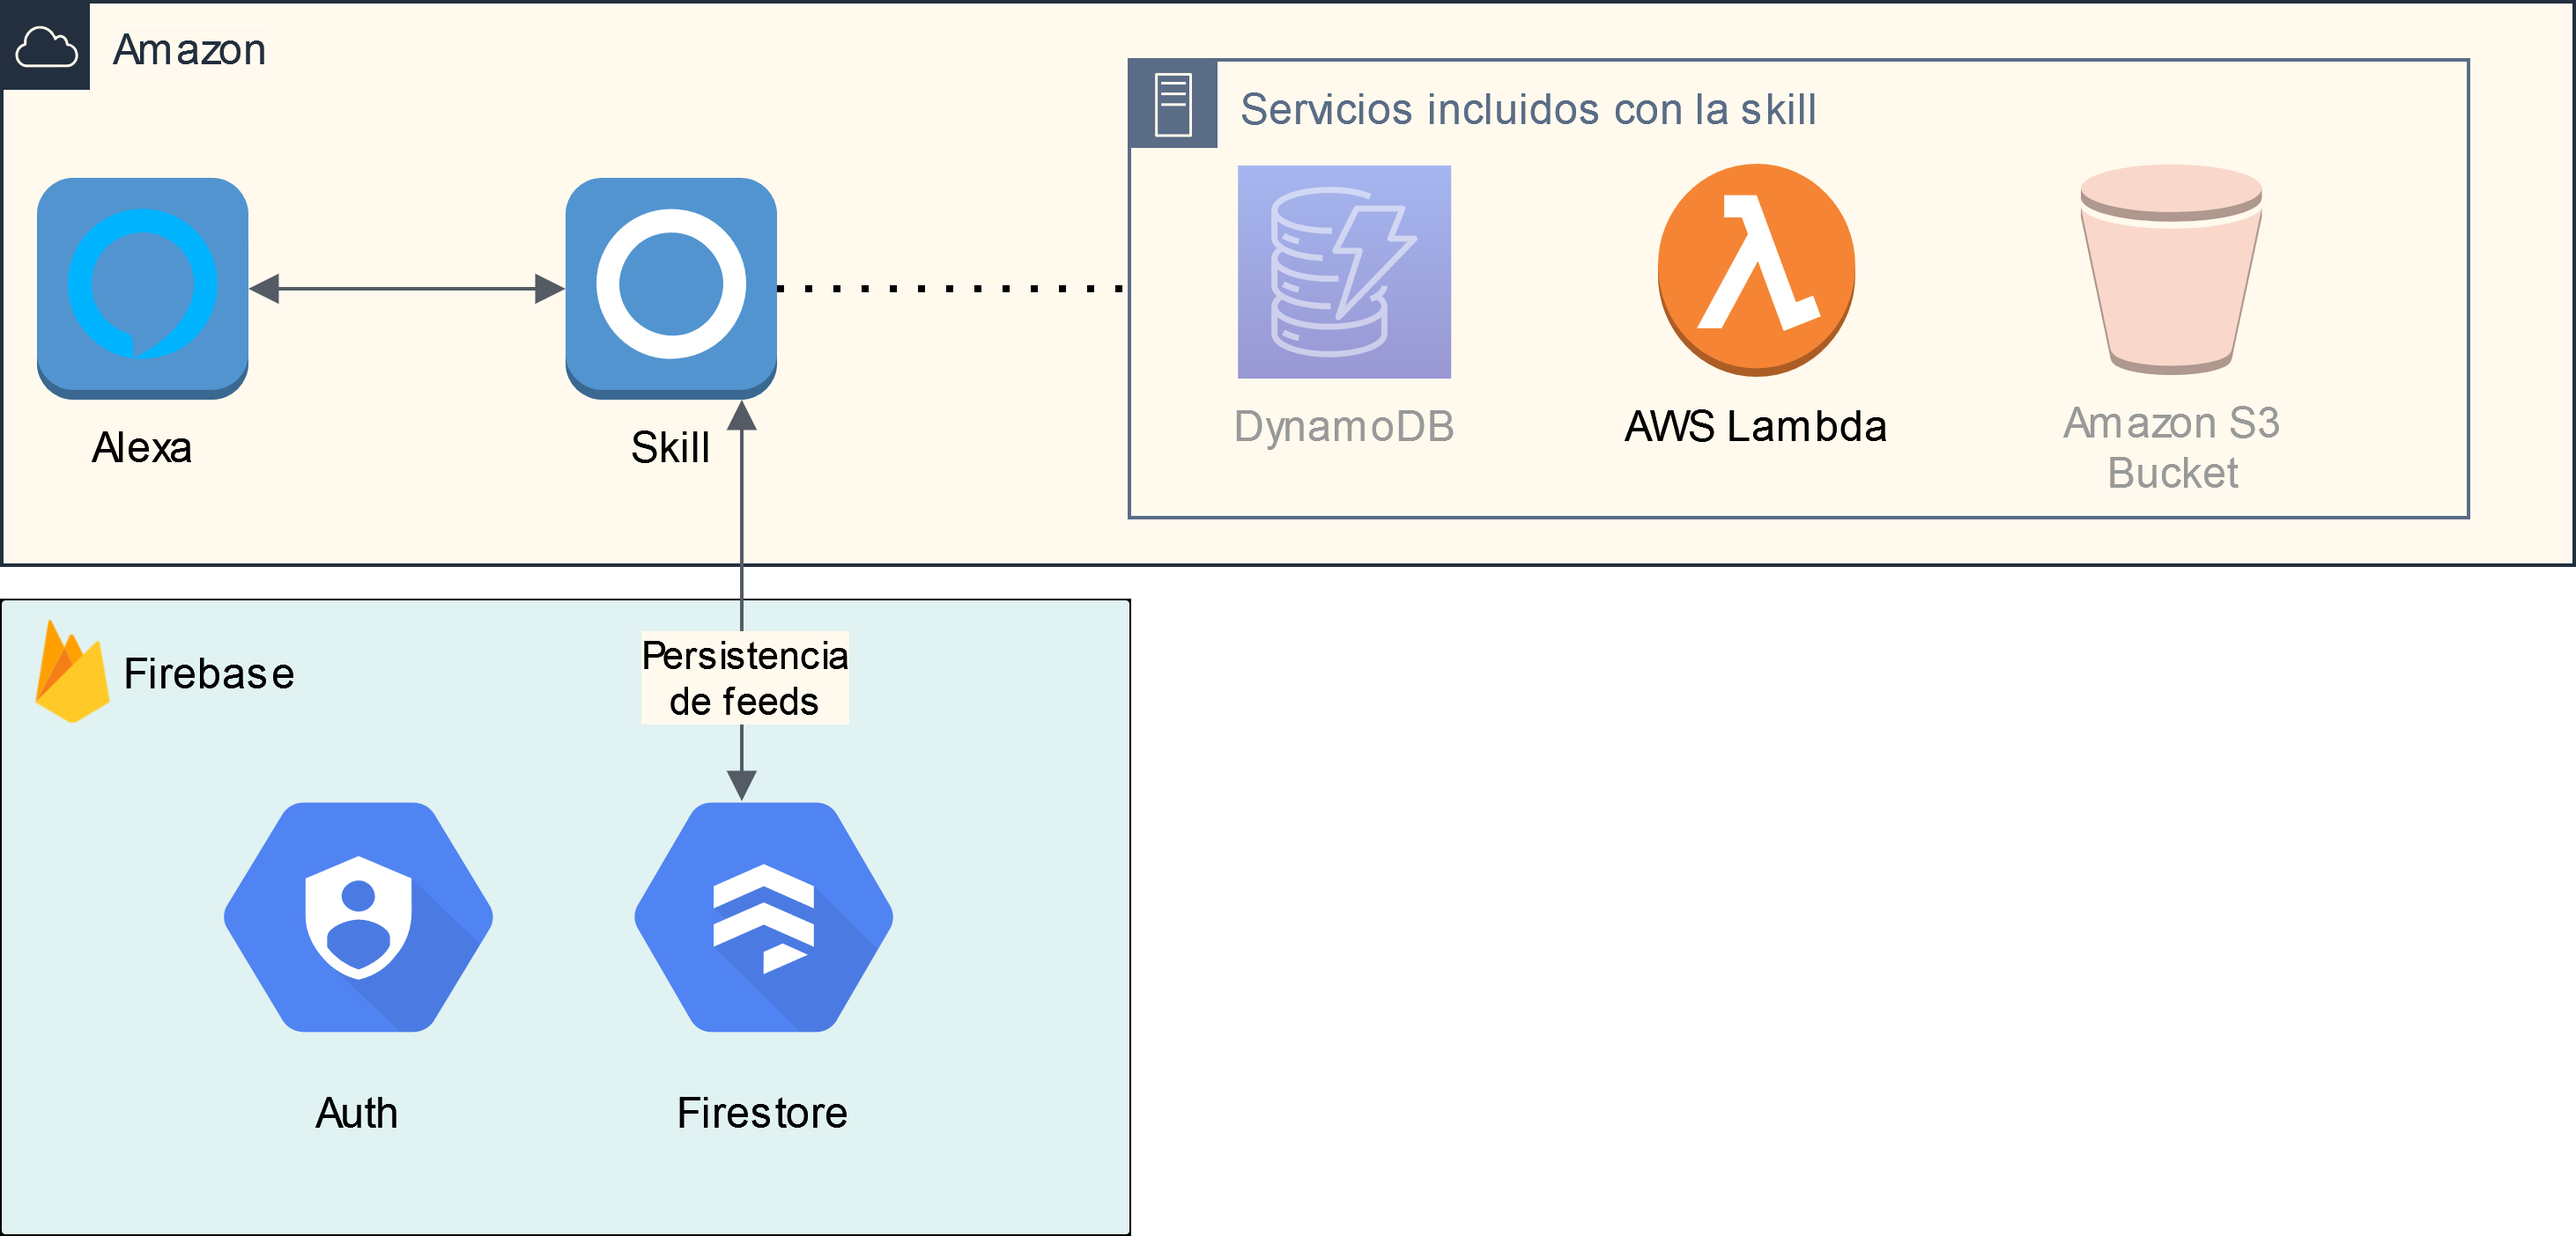
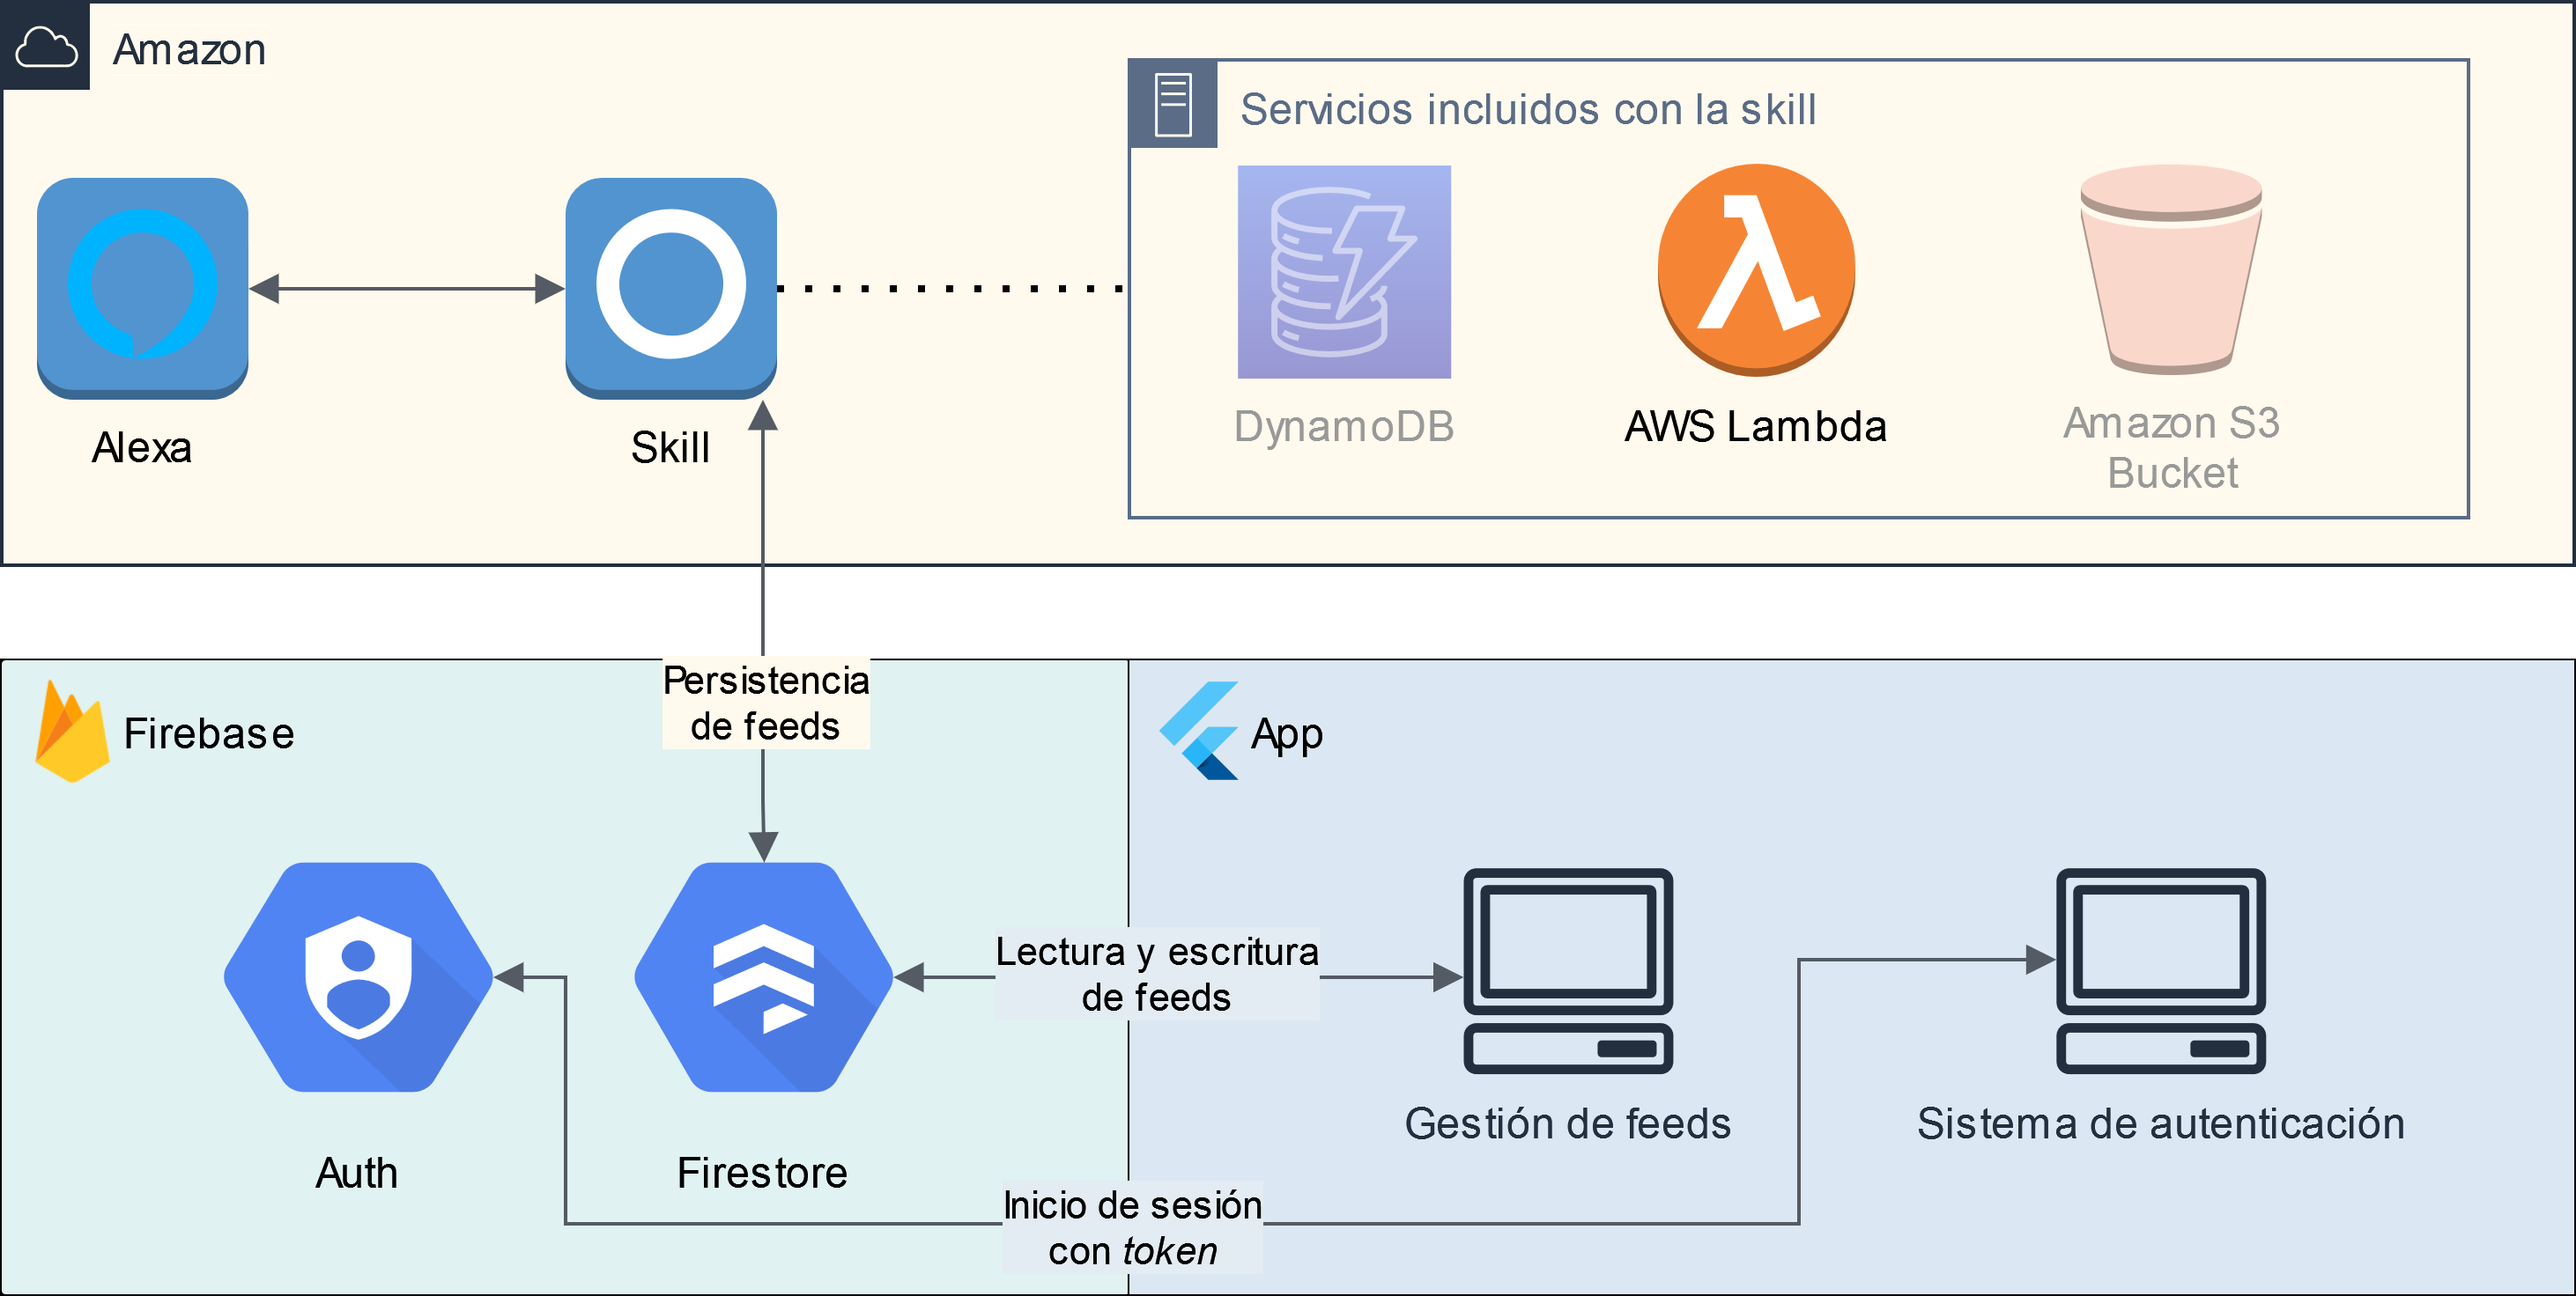
Improved design slides

diff --git a/defensa.tex b/defensa.tex
@@ -335,20 +335,16 @@
     \includegraphics[width=\textwidth]{bloques-skill.png}  
   \end{frame}
 
+  \begin{frame}{App}
+    \includegraphics[width=\textwidth]{bloques-app.png}  
+  \end{frame}
+
   \begin{frame}{Base de datos}
     \includegraphics[width=\textwidth]{bloques-bd.png}  
   \end{frame}
 
-  \begin{frame}{Gestión de feeds}
-    \includegraphics[width=\textwidth]{bloques-app.png}  
-  \end{frame}
-
   \begin{frame}{Servicio de autenticación}
     \includegraphics[width=.9\textwidth]{bloques-auth.png}  
-  \end{frame}
-
-  \begin{frame}{Resumen}
-    \includegraphics[width=.9\textwidth]{diagrama-bloques.png}  
   \end{frame}
 
   \section{Demo}
